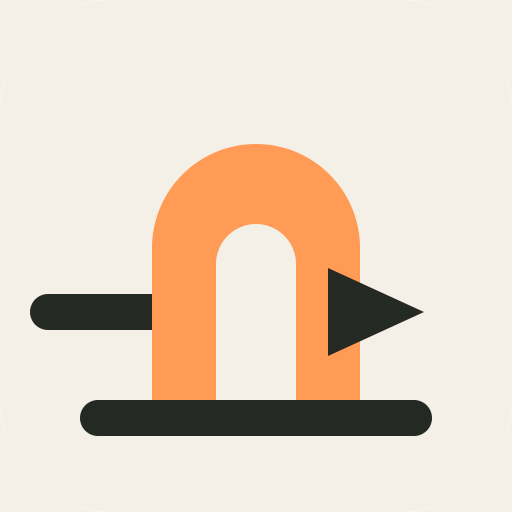
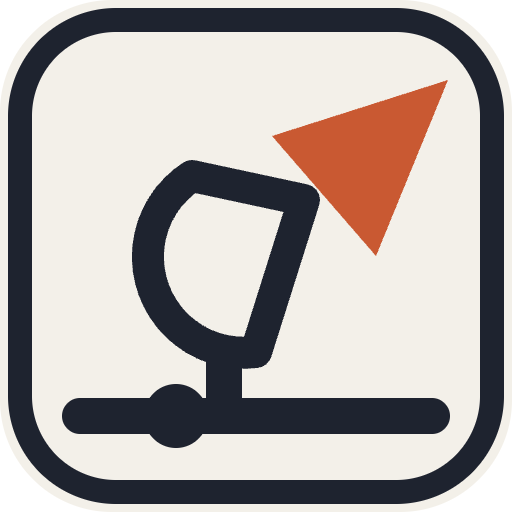
Replace the rejected cut-paper artwork with the drawn family
Original relay-and-signal cover, share card, switcher crop and refined mark with
its own 512px install icon; superseded v3 files removed.

diff --git a/src/worker.ts b/src/worker.ts
@@ -29,7 +29,7 @@ const app = {
       String.fromCharCode(...crypto.getRandomValues(new Uint8Array(16))),
     );
     return new Response(
-      `<!doctype html><html lang="en" data-app="hello" data-theme="${config.theme === "midnight" ? "dark" : "light"}"><head><meta charset="utf-8"><meta name="viewport" content="width=device-width,initial-scale=1"><meta name="robots" content="noindex,nofollow"><title>${esc(config.title)} · App Composer</title><meta name="description" content="${esc(config.intro)}"><link rel="canonical" href="${esc(origin)}/"><link rel="icon" href="/brand/mark.svg"><link rel="apple-touch-icon" href="/brand/icon.png"><link rel="preload" href="/brand/space.woff2" as="font" type="font/woff2" crossorigin><meta name="theme-color" content="#17181b"><meta property="og:type" content="website"><meta property="og:title" content="${esc(config.title)} · App Composer"><meta property="og:description" content="${esc(config.intro)}"><meta property="og:url" content="${esc(origin)}/"><meta property="og:image" content="${esc(origin)}/brand/hello-share-v3.jpg"><meta property="og:image:alt" content="Hello World: a burnt-orange cut-paper archway with a graphite route line stepping up through it toward an arrow, on the App Composer share card."><meta name="twitter:card" content="summary_large_image"><meta name="twitter:title" content="${esc(config.title)} · App Composer"><meta name="twitter:description" content="${esc(config.intro)}"><meta name="twitter:image:alt" content="Hello World: a burnt-orange cut-paper archway with a graphite route line stepping up through it toward an arrow, on the App Composer share card."><meta property="og:image:width" content="1200"><meta property="og:image:height" content="630"><meta property="og:image:type" content="image/jpeg"><meta name="twitter:image" content="${esc(origin)}/brand/hello-share-v3.jpg"><link rel="stylesheet" href="/brand/navigation.css"><link rel="stylesheet" href="/style.css"><link rel="stylesheet" href="/brand/page-share.css"><link rel="stylesheet" href="/brand/theme-control.css"></head><body><a class="skip" href="#main">Skip to content</a><header class="app-header"><a class="brand" href="/"><img src="/brand/mark.svg" width="36" height="36" alt=""><span>Hello World <small>App Composer reference</small></span></a><div class="app-tools"><button type="button" class="secondary" data-open-apps aria-haspopup="dialog">Apps <kbd>⌘K / Ctrl K</kbd></button><button type="button" class="theme-control secondary" id="reader-theme" aria-label="Dark theme" aria-pressed="true" title="Switch to light theme"><svg data-theme-glyph="dark" width="20" height="20" viewBox="0 0 24 24" fill="none" stroke="currentColor" stroke-width="1.75" stroke-linecap="round" stroke-linejoin="round" aria-hidden="true"><path d="M21 12.79A9 9 0 1 1 11.21 3 7 7 0 0 0 21 12.79Z"/></svg><svg data-theme-glyph="light" width="20" height="20" viewBox="0 0 24 24" fill="none" stroke="currentColor" stroke-width="1.75" stroke-linecap="round" stroke-linejoin="round" aria-hidden="true"><circle cx="12" cy="12" r="4"/><path d="M12 2v2m0 16v2M2 12h2m16 0h2M4.93 4.93l1.42 1.42m11.3 11.3 1.42 1.42M4.93 19.07l1.42-1.42m11.3-11.3 1.42-1.42"/></svg></button></div></header><dialog id="app-navigation" aria-labelledby="app-navigation-title"><div class="dialog-heading"><h2 id="app-navigation-title">Apps and shortcuts</h2><button type="button" data-close-apps>Close</button></div><label>Find an app or task<input type="search" placeholder="App name, Get Ready, Init…" autocomplete="off"></label><p role="status" aria-live="polite"></p><ul><li data-destination><a href="https://guestbook.loftwah.com"><img src="/brand/apps/herethere-small-v3.webp" width="40" height="40" alt=""><span>Here / there<small>Photo guestbook</small></span></a></li><li data-destination><a href="https://showcase.loftwah.com"><img src="/brand/apps/linkarooie-small-v3.webp" width="40" height="40" alt=""><span>Linkarooie<small>Curated collection</small></span></a></li><li data-destination><a href="https://share.loftwah.com"><img src="/brand/apps/linkcheck-small-v3.webp" width="40" height="40" alt=""><span>Link Check<small>SEO and sharing</small></span></a></li><li data-destination><a href="https://ready.loftwah.com" aria-current="page"><img src="/brand/apps/hello-small-v3.webp" width="40" height="40" alt=""><span>Hello World<small>Deployment reference</small></span></a></li><li data-destination><a href="https://ai.loftwah.com"><img src="/brand/apps/carryforward-small-v3.webp" width="40" height="40" alt=""><span>Carry / forward<small>Portable assistant memory</small></span></a></li><li data-destination><a href="https://composer.loftwah.com/ready">Get Ready<small>Composer task</small></a></li><li data-destination><a href="https://composer.loftwah.com/init">Init<small>Composer task</small></a></li></ul></dialog><main id="main"><section class="hello"><div><h1>${esc(config.title)}</h1><p class="lede">${esc(config.intro)}</p><a class="button" href="https://composer.loftwah.com/init">Configure your own app in Init</a><p class="note">If this page loads over HTTPS, this environment can build and deploy. No database, account or permanent app is required.</p><ol class="steps"><li><strong>Check the proof.</strong> Open <a href="/build.json">this deployment’s /build.json</a> and confirm the commit matches the source you deployed.</li><li><strong>Make it yours.</strong> Configure an app in Init, then hand the saved specification to your coding agent.</li><li><strong>Verify the result.</strong> Your agent deploys and checks the live revision. This reference app is only the starting point.</li></ol></div><figure><img src="/brand/hello-art-v3-960.webp" srcset="/brand/hello-art-v3-480.webp 480w, /brand/hello-art-v3-960.webp 960w" sizes="(max-width: 820px) calc(100vw - 48px), 440px" width="960" height="960" alt="A burnt-orange cut-paper archway with a graphite route line stepping up through it toward an arrow, beside a small permission-green square."><figcaption>Reviewed cut-paper Hello World artwork, kept separate from any deployed page.</figcaption></figure></section></main><footer><div class="public-page-share" data-page-share hidden><button type="button" class="secondary" data-page-native hidden>Share page</button><button type="button" class="secondary" data-page-copy hidden>Copy page link</button><p role="status" aria-live="polite" data-share-status></p><label data-share-fallback hidden>Published page URL<input readonly aria-label="Published page URL"></label></div><a href="https://github.com/loftwah/app-composer-hello">MIT source</a> · Reviewed 17 October 2026<span> · <a href="https://composer.loftwah.com/">App Composer</a></span></footer><script nonce="${nonce}" src="/brand/navigation.js"></script><script type="module" src="/brand/page-performance.mjs"></script><script type="module" src="/brand/page-share.mjs"></script></body></html>`,
+      `<!doctype html><html lang="en" data-app="hello" data-theme="${config.theme === "midnight" ? "dark" : "light"}"><head><meta charset="utf-8"><meta name="viewport" content="width=device-width,initial-scale=1"><meta name="robots" content="noindex,nofollow"><title>${esc(config.title)} · App Composer</title><meta name="description" content="${esc(config.intro)}"><link rel="canonical" href="${esc(origin)}/"><link rel="icon" href="/brand/mark.svg"><link rel="apple-touch-icon" href="/brand/icon.png"><link rel="preload" href="/brand/space.woff2" as="font" type="font/woff2" crossorigin><meta name="theme-color" content="#17181b"><meta property="og:type" content="website"><meta property="og:title" content="${esc(config.title)} · App Composer"><meta property="og:description" content="${esc(config.intro)}"><meta property="og:url" content="${esc(origin)}/"><meta property="og:image" content="${esc(origin)}/brand/hello-share-v4.jpg"><meta property="og:image:alt" content="Hello World: a tiny relay sends its first bright orange signal into a huge dark space, on the App Composer share card."><meta name="twitter:card" content="summary_large_image"><meta name="twitter:title" content="${esc(config.title)} · App Composer"><meta name="twitter:description" content="${esc(config.intro)}"><meta name="twitter:image:alt" content="Hello World: a tiny relay sends its first bright orange signal into a huge dark space, on the App Composer share card."><meta property="og:image:width" content="1200"><meta property="og:image:height" content="630"><meta property="og:image:type" content="image/jpeg"><meta name="twitter:image" content="${esc(origin)}/brand/hello-share-v4.jpg"><link rel="stylesheet" href="/brand/navigation.css"><link rel="stylesheet" href="/style.css"><link rel="stylesheet" href="/brand/page-share.css"><link rel="stylesheet" href="/brand/theme-control.css"></head><body><a class="skip" href="#main">Skip to content</a><header class="app-header"><a class="brand" href="/"><img src="/brand/mark.svg" width="36" height="36" alt=""><span>Hello World <small>App Composer reference</small></span></a><div class="app-tools"><button type="button" class="secondary" data-open-apps aria-haspopup="dialog">Apps <kbd>⌘K / Ctrl K</kbd></button><button type="button" class="theme-control secondary" id="reader-theme" aria-label="Dark theme" aria-pressed="true" title="Switch to light theme"><svg data-theme-glyph="dark" width="20" height="20" viewBox="0 0 24 24" fill="none" stroke="currentColor" stroke-width="1.75" stroke-linecap="round" stroke-linejoin="round" aria-hidden="true"><path d="M21 12.79A9 9 0 1 1 11.21 3 7 7 0 0 0 21 12.79Z"/></svg><svg data-theme-glyph="light" width="20" height="20" viewBox="0 0 24 24" fill="none" stroke="currentColor" stroke-width="1.75" stroke-linecap="round" stroke-linejoin="round" aria-hidden="true"><circle cx="12" cy="12" r="4"/><path d="M12 2v2m0 16v2M2 12h2m16 0h2M4.93 4.93l1.42 1.42m11.3 11.3 1.42 1.42M4.93 19.07l1.42-1.42m11.3-11.3 1.42-1.42"/></svg></button></div></header><dialog id="app-navigation" aria-labelledby="app-navigation-title"><div class="dialog-heading"><h2 id="app-navigation-title">Apps and shortcuts</h2><button type="button" data-close-apps>Close</button></div><label>Find an app or task<input type="search" placeholder="App name, Get Ready, Init…" autocomplete="off"></label><p role="status" aria-live="polite"></p><ul><li data-destination><a href="https://guestbook.loftwah.com"><img src="/brand/apps/herethere-small-v4.webp" width="40" height="40" alt=""><span>Here / there<small>Photo guestbook</small></span></a></li><li data-destination><a href="https://showcase.loftwah.com"><img src="/brand/apps/linkarooie-small-v4.webp" width="40" height="40" alt=""><span>Linkarooie<small>Curated collection</small></span></a></li><li data-destination><a href="https://share.loftwah.com"><img src="/brand/apps/linkcheck-small-v4.webp" width="40" height="40" alt=""><span>Link Check<small>SEO and sharing</small></span></a></li><li data-destination><a href="https://ready.loftwah.com" aria-current="page"><img src="/brand/apps/hello-small-v4.webp" width="40" height="40" alt=""><span>Hello World<small>Deployment reference</small></span></a></li><li data-destination><a href="https://ai.loftwah.com"><img src="/brand/apps/carryforward-small-v4.webp" width="40" height="40" alt=""><span>Carry / forward<small>Portable assistant memory</small></span></a></li><li data-destination><a href="https://composer.loftwah.com/ready">Get Ready<small>Composer task</small></a></li><li data-destination><a href="https://composer.loftwah.com/init">Init<small>Composer task</small></a></li></ul></dialog><main id="main"><section class="hello"><div><h1>${esc(config.title)}</h1><p class="lede">${esc(config.intro)}</p><a class="button" href="https://composer.loftwah.com/init">Configure your own app in Init</a><p class="note">If this page loads over HTTPS, this environment can build and deploy. No database, account or permanent app is required.</p><ol class="steps"><li><strong>Check the proof.</strong> Open <a href="/build.json">this deployment’s /build.json</a> and confirm the commit matches the source you deployed.</li><li><strong>Make it yours.</strong> Configure an app in Init, then hand the saved specification to your coding agent.</li><li><strong>Verify the result.</strong> Your agent deploys and checks the live revision. This reference app is only the starting point.</li></ol></div><figure><img src="/brand/hello-art-v4-960.webp" srcset="/brand/hello-art-v4-480.webp 480w, /brand/hello-art-v4-960.webp 960w" sizes="(max-width: 820px) calc(100vw - 48px), 440px" width="960" height="960" alt="An original animated-style illustration of a tiny newly built relay sending its first bright orange signal up to a distant satellite."><figcaption>Original illustration for Hello World. Kept separate from any deployed page.</figcaption></figure></section></main><footer><div class="public-page-share" data-page-share hidden><button type="button" class="secondary" data-page-native hidden>Share page</button><button type="button" class="secondary" data-page-copy hidden>Copy page link</button><p role="status" aria-live="polite" data-share-status></p><label data-share-fallback hidden>Published page URL<input readonly aria-label="Published page URL"></label></div><a href="https://github.com/loftwah/app-composer-hello">MIT source</a> · Reviewed 17 October 2026<span> · <a href="https://composer.loftwah.com/">App Composer</a></span></footer><script nonce="${nonce}" src="/brand/navigation.js"></script><script type="module" src="/brand/page-performance.mjs"></script><script type="module" src="/brand/page-share.mjs"></script></body></html>`,
       {
         headers: {
           "Content-Type": "text/html;charset=utf-8",

diff --git a/README.md b/README.md
@@ -23,7 +23,7 @@ The guard verifies actual GitHub main, reruns `pnpm test`, builds/deploys throug
 
 Reviewed 13 October 2026; artwork and first-deployment clarity reviewed 17 October 2026. The app supplies saved reader dark/light themes, native app navigation with Ctrl/Cmd+K and ordinary links, visible keyboard focus, phone layouts, favicon/touch icon and page-specific social metadata. These features do not widen signup, owner access or disclosure permissions.
 
-Artwork: the hero, the default social card, the favicon and the apple-touch icon are this app's own reviewed cut-paper set — a burnt-orange archway with a graphite route line stepping through it toward an arrow. `public/brand/hello-art-v3.PROVENANCE.txt` records the master, every derivative and the SHA-256 of each file. The superseded `hello-share-v2.jpg` baked the words "Hello, world. Your first app with App Composer" into the image and made the reference app wear App Composer's own mark and icon; both are replaced. The display font is preloaded from `/brand/space.woff2`, the file the stylesheet declares as the one bundled face. `tests/page-content.test.mjs` keeps the reviewed artwork, the ordered first-deployment steps and the switcher names tied to the source.
+Artwork: the hero, the default social card, the favicon and the apple-touch icon are this app's own reviewed ink-line cel animation set — a tiny newly built relay sending its first bright orange signal up to a distant satellite. `public/brand/hello-art-v4-master.png` is the editable master; the 480/960 WebP hero and the 1200 × 630 JPEG share card are its reviewed derivatives. The superseded `hello-share-v2.jpg` baked the words "Hello, world. Your first app with App Composer" into the image and made the reference app wear App Composer's own mark and icon; both are replaced. The display font is preloaded from `/brand/space.woff2`, the file the stylesheet declares as the one bundled face. `tests/page-content.test.mjs` keeps the reviewed artwork, the ordered first-deployment steps and the switcher names tied to the source.
 
 First-deployment clarity: the page states what a successful first deployment proves, then gives the three ordered steps — check this deployment's `/build.json` against the source you deployed, configure your own app in Init, and let your agent deploy and verify the result. The proof link is named for what it shows rather than left as a bare "inspect" link.
 

diff --git a/public/brand/apps/README.md b/public/brand/apps/README.md
@@ -1,5 +1,5 @@
-Navigation crops for the app switcher, reviewed 17 October 2026. These 96x96 WebP derivatives come from the reviewed cut-paper tiles in https://github.com/loftwah/app-composer/tree/main/public/brand/apps, exported at the same time as each app's own hero art. Copyright and usage follow the parent MIT repository. No vendor UI and no personal images.
+Navigation crops for the app switcher, reviewed 17 October 2026. These 96x96 WebP derivatives come from the reviewed ink-line cel animation tiles in https://github.com/loftwah/app-composer/tree/main/public/brand/apps, exported at the same time as each app's own hero art. Copyright and usage follow the parent MIT repository. No vendor UI and no personal images.
 
-Current set: `herethere-small-v3`, `linkarooie-small-v3`, `linkcheck-small-v3`, `hello-small-v3` and `carryforward-small-v3`. Each file is cropped from its own app's cut-paper tile so the switcher matches the tile a visitor clicked; none is a generic icon and none is another app's character art.
+Current set: `herethere-small-v4`, `linkarooie-small-v4`, `linkcheck-small-v4`, `hello-small-v4` and `carryforward-small-v4`. Each file is cropped from its own app's illustration so the switcher matches the tile a visitor clicked; none is a generic icon and none is another app's character art.
 
-Removed in this release: the 14 October 2026 `guestbook-small-v1/v2`, `showcase-small-v1/v2`, `linkcheck-small-v1`, `hello-small-v1` and `state-small-v1` crops, and `creators/linkarooie-kangaroo-v1.png`. They came from the earlier mixed set and stayed only while the apps still referenced them. The bytes remain in this repository's git history.
+Removed in earlier artwork releases: the 14 October 2026 `guestbook-small-v1/v2`, `showcase-small-v1/v2`, `linkcheck-small-v1`, `hello-small-v1` and `state-small-v1` crops, and `creators/linkarooie-kangaroo-v1.png`. They came from the earlier mixed set and stayed only while the apps still referenced them. The superseded 17 October 2026 cut-paper crops were removed with the ink-line cel animation release. The bytes remain in this repository's git history.
